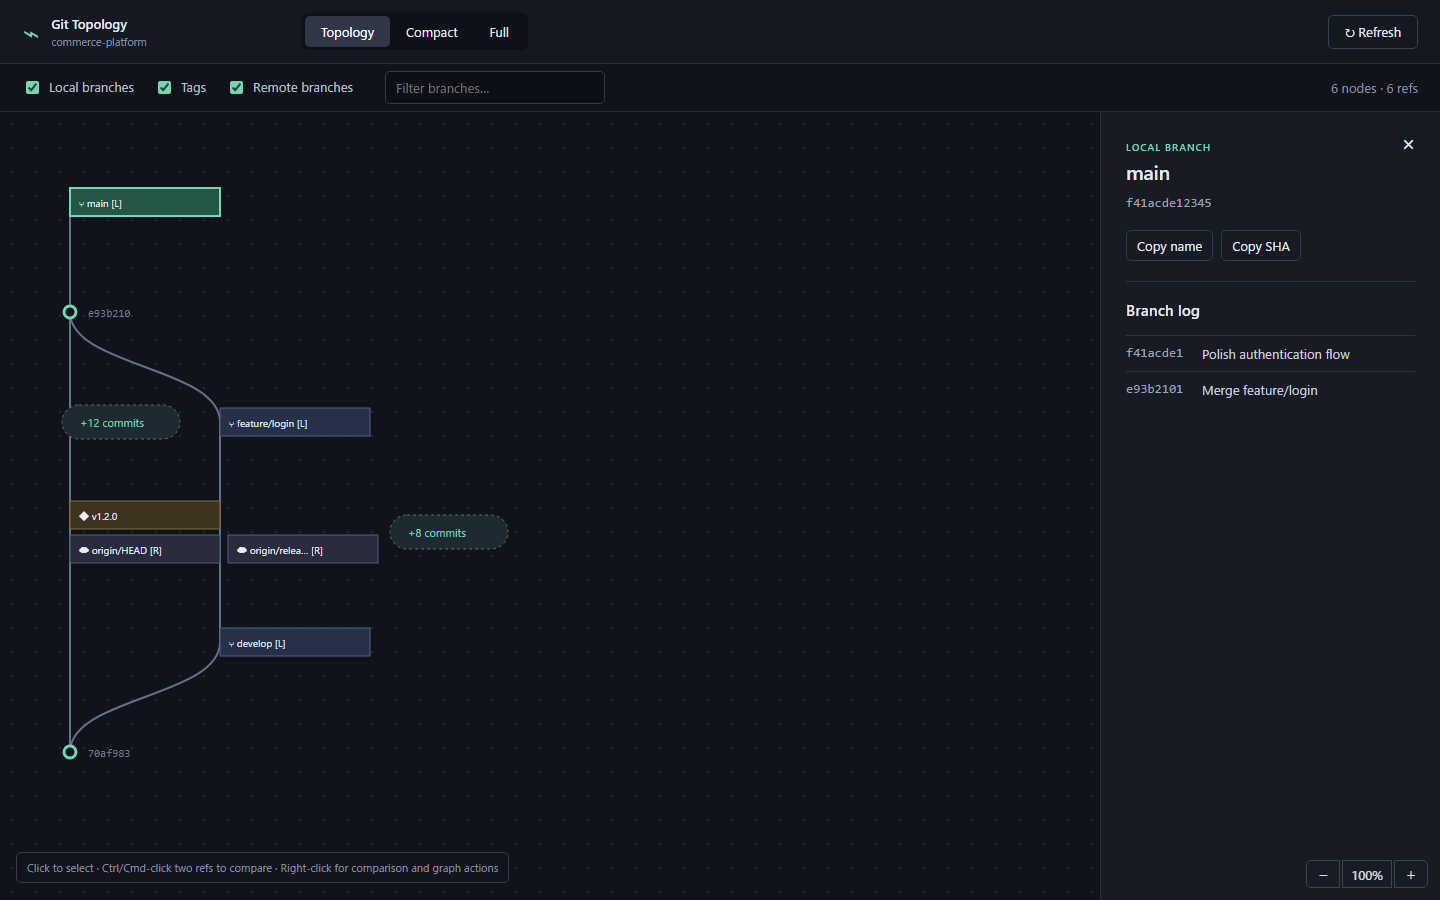
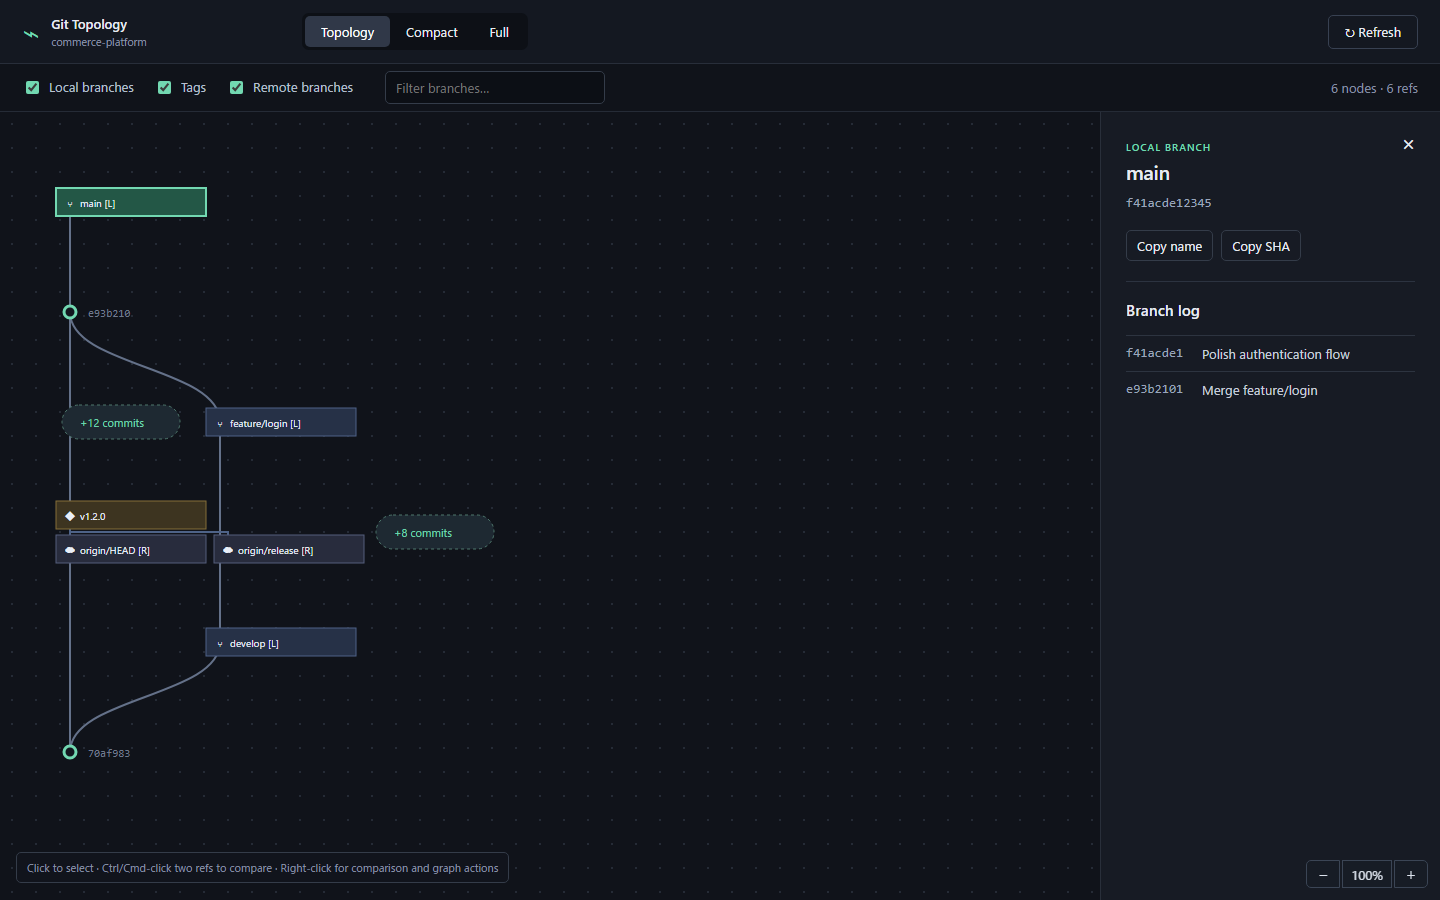
Clarify ref label connections

diff --git a/src/webview/styles.css b/src/webview/styles.css
@@ -1,3 +1,3 @@
 :root{color-scheme:dark;--bg:#10131a;--panel:#171b24;--muted:#8992a7;--line:#343c4d;--accent:#72d8b1;--blue:#6aa8ff}*{box-sizing:border-box}body{margin:0;background:var(--bg);color:#e8ebf2;font:13px var(--vscode-font-family,Inter,system-ui,sans-serif)}button,input,select{font:inherit;color:inherit}.app{height:100vh;display:flex;flex-direction:column}header{height:64px;display:flex;align-items:center;padding:0 22px;border-bottom:1px solid #282e3a;background:#141821}.brand{display:flex;gap:11px;align-items:center;min-width:280px}.brand .mark{font-size:30px;color:var(--accent)}.brand strong,.brand small{display:block}.brand small{color:var(--muted);margin-top:2px}.modes{display:flex;background:#0d1016;padding:3px;border-radius:7px}.modes button,.refresh,.actions button{border:0;background:transparent;padding:7px 16px;border-radius:5px}.modes .active{background:#303848;color:#fff}.refresh{margin-left:auto;border:1px solid #384152}.filters{height:48px;display:flex;align-items:center;gap:20px;padding:0 22px;border-bottom:1px solid #252b36;color:#b8c0d0}.filters label{display:flex;gap:7px}.filters input[type=checkbox]{accent-color:var(--accent)}.filters .search{margin-left:12px;background:#0c0f15;border:1px solid #343c49;border-radius:5px;padding:7px 10px;width:220px}.filters span{margin-left:auto;color:var(--muted)}.content{display:grid;grid-template-columns:minmax(0,1fr) 340px;flex:1;min-height:0}.canvas{overflow:auto;background-image:radial-gradient(#252b36 1px,transparent 1px);background-size:24px 24px}.canvas svg{display:block}.edges path{fill:none;stroke:#647189;stroke-width:2}.node circle{fill:#12161e;stroke:var(--accent);stroke-width:3}.node .sha{fill:#6f798c;font-family:monospace;font-size:11px}.ref{cursor:pointer}.ref rect{fill:#263147;stroke:#4e6388}.ref text{fill:#e9eef8;font-size:11px}.ref.tag rect{fill:#3d3420;stroke:#856f38}.ref.remoteBranch rect{fill:#282c3d;stroke:#555f7d}.range{cursor:pointer}.range rect{fill:#1e2932;stroke:#4f786d;stroke-dasharray:3}.range text{fill:var(--accent);font-size:11px}aside{background:var(--panel);border-left:1px solid #292f3a;overflow:auto}.empty{text-align:center;padding:90px 40px;color:var(--muted)}.empty span{font-size:36px;color:#536078}.inspector{padding:25px;position:relative}.inspector>small,.base small{color:var(--accent);font-weight:700;font-size:10px;letter-spacing:1px}.inspector h2{margin:5px 0 8px}.inspector code{color:#9aa5ba}.close{position:absolute;right:18px;top:14px;border:0;background:transparent;font-size:22px}.actions{display:flex;margin:20px 0}.actions button{border:1px solid #343c49;margin-right:8px;padding:6px 10px}.inspector hr{border:0;border-top:1px solid #2c3340;margin:18px 0}.inspector select{width:100%;background:#0e1118;border:1px solid #394251;padding:9px;border-radius:5px;margin-bottom:13px}.radio{display:block;margin:9px 0;color:#bac2d1}.radio input{accent-color:var(--accent)}.primary{width:100%;margin-top:12px;padding:9px;border:0;border-radius:5px;background:#357f6b;font-weight:600}.metrics{display:grid;grid-template-columns:repeat(3,1fr);gap:6px;margin-top:14px}.metrics div{background:#11151c;padding:10px;text-align:center}.metrics b,.metrics small{display:block}.metrics b{font-size:18px}.metrics small{color:var(--muted);font-size:10px}.base{display:flex;justify-content:space-between}.stat ins{color:#5bdb95;text-decoration:none}.stat del{color:#f37981;text-decoration:none}.files button{width:100%;display:flex;gap:8px;background:transparent;border:0;border-top:1px solid #2d3440;padding:9px 2px;text-align:left}.files i{font-style:normal;color:#69d49b}.files i.D{color:#ef737b}.files i.M{color:#e7b85f}.loading{height:100vh;display:grid;place-content:center;text-align:center;color:var(--muted)}.spinner{margin:auto;width:28px;height:28px;border:3px solid #303847;border-top-color:var(--accent);border-radius:50%;animation:spin 1s linear infinite}.toast{position:fixed;bottom:20px;left:20px;background:#5e2930;padding:12px 16px;border-radius:5px}.error{color:#f48289}@keyframes spin{to{transform:rotate(360deg)}}
 .ref.selected rect{fill:#235746;stroke:var(--accent);stroke-width:2}.selection-hint{position:sticky;left:16px;bottom:14px;width:max-content;padding:7px 10px;border:1px solid #343c49;border-radius:5px;background:#11151ddd;color:var(--muted);font-size:11px}.context-menu{position:fixed;z-index:10;min-width:210px;padding:5px;background:#202631;border:1px solid #475164;border-radius:6px;box-shadow:0 8px 24px #0008}.context-menu .context-title{padding:7px 10px;color:var(--muted);border-bottom:1px solid #394150;overflow:hidden;text-overflow:ellipsis}.context-menu button{display:block;width:100%;padding:8px 10px;border:0;background:transparent;text-align:left}.context-menu button:hover{background:#354158}.context-menu button:disabled{color:#747d8e;background:transparent}.context-separator{height:1px;margin:5px;background:#394150}.ref-log{margin-top:16px}.log-entry{display:grid;grid-template-columns:68px minmax(0,1fr);gap:8px;padding:9px 0;border-top:1px solid #2d3440}.log-entry span{overflow-wrap:anywhere;color:#c9d0dc}.toast.success{left:auto;right:20px;background:#235746;cursor:pointer}
-.context-group{text-transform:uppercase;color:var(--accent);font-size:9px;font-weight:700;letter-spacing:1px;padding:8px 10px 3px;border-top:1px solid #394150}.node.merge-base circle{fill:#d7ad4b;stroke:#fff;stroke-width:4;filter:drop-shadow(0 0 6px #d7ad4b)}.node.merge-base:after{content:'Merge Base'}.ref text{font-size:10px}.ref{outline:none}
+.context-group{text-transform:uppercase;color:var(--accent);font-size:9px;font-weight:700;letter-spacing:1px;padding:8px 10px 3px;border-top:1px solid #394150}.node.merge-base circle{fill:#d7ad4b;stroke:#fff;stroke-width:4;filter:drop-shadow(0 0 6px #d7ad4b)}.node.merge-base:after{content:'Merge Base'}.ref text{font-size:10px}.ref{outline:none}.ref-connectors path{fill:none;stroke:#4e6388;stroke-width:2}

diff --git a/src/webview/App.tsx b/src/webview/App.tsx
@@ -119,7 +119,7 @@ function Graph({data, allowed, selected, onSelect, onContextMenu}:{data:GraphPay
         </g>;
       }
       const layout = refLayouts.get(node.id)!;
-      return <g key={node.id} data-commit={node.id} className={`node ${(data.mergeBaseIds ?? []).includes(node.id)?'merge-base':''}`} transform={`translate(${node.x},${node.y})`}>{layout.refs.length===0&&<><circle r="6"/><text className="sha" x="18" y="5">{node.id.slice(0,7)}</text></>}{layout.refs.map(({ ref, position })=><g key={ref.fullName} className={`ref ${ref.type} ${selected.has(ref.fullName)?'selected':''}`} transform={`translate(${position.x},${position.y})`} onClick={event=>{event.stopPropagation();onSelect(ref,event.ctrlKey||event.metaKey);}} onContextMenu={event=>onContextMenu(ref,event)} role="button" aria-label={`${ref.name} branch`}><rect width="150" height="28" rx="0"/><text x="9" y="19">{ref.type==='tag'?'◆ ':ref.type==='remoteBranch'?'☁ ':'⑂ '}{ref.name.length>13?ref.name.slice(0,12)+'…':ref.name}{branchState(data,ref)}</text></g>)}</g>;
+      return <g key={node.id} data-commit={node.id} className={`node ${(data.mergeBaseIds ?? []).includes(node.id)?'merge-base':''}`} transform={`translate(${node.x},${node.y})`}>{layout.refs.length > 1 && <g className="ref-connectors" aria-hidden="true">{layout.refs.slice(1).map(({ ref, position }) => <path key={ref.fullName} data-ref-connector={ref.fullName} d={`M ${layout.anchor.x} ${layout.anchor.y} V ${position.y - REF_ROW_GAP / 2} H ${position.x + REF_ICON_CENTER_X} V ${position.y + REF_HEIGHT / 2}`}/>)}</g>}{layout.refs.length===0&&<><circle r="6"/><text className="sha" x="18" y="5">{node.id.slice(0,7)}</text></>}{layout.refs.map(({ ref, position })=><g key={ref.fullName} className={`ref ${ref.type} ${selected.has(ref.fullName)?'selected':''}`} transform={`translate(${position.x},${position.y})`} onClick={event=>{event.stopPropagation();onSelect(ref,event.ctrlKey||event.metaKey);}} onContextMenu={event=>onContextMenu(ref,event)} role="button" aria-label={`${ref.name} branch`}><rect width="150" height="28" rx="0"/><text className="ref-icon" x="14" y="19" textAnchor="middle">{refIcon(ref)}</text><text className="ref-name" x="24" y="19">{displayRefName(ref.name)}{branchState(data,ref)}</text></g>)}</g>;
     })}
   </g></svg><div className="selection-hint">Click to select · Ctrl/Cmd-click two refs to compare · Right-click for comparison and graph actions</div></section>;
 }
@@ -128,6 +128,7 @@ const REF_WIDTH = 150;
 const REF_HEIGHT = 28;
 const REF_ROW_GAP = 6;
 const REF_COLUMN_GAP = 8;
+const REF_ICON_CENTER_X = 14;
 const REF_TYPES: GitRef['type'][] = ['tag', 'localBranch', 'remoteBranch'];
 
 interface RefLayout {
@@ -140,10 +141,10 @@ function layoutRefs(refs: GitRef[]): RefLayout {
   const firstRowY = -((rows.length * REF_HEIGHT) + ((rows.length - 1) * REF_ROW_GAP)) / 2;
   const positionedRefs = rows.flatMap((row, rowIndex) => row.map((ref, columnIndex) => ({
     ref,
-    position: { x: columnIndex * (REF_WIDTH + REF_COLUMN_GAP), y: firstRowY + rowIndex * (REF_HEIGHT + REF_ROW_GAP) }
+    position: { x: -REF_ICON_CENTER_X + columnIndex * (REF_WIDTH + REF_COLUMN_GAP), y: firstRowY + rowIndex * (REF_HEIGHT + REF_ROW_GAP) }
   })));
   const anchor = positionedRefs[0]
-    ? { x: positionedRefs[0].position.x, y: positionedRefs[0].position.y + REF_HEIGHT / 2 }
+    ? { x: positionedRefs[0].position.x + REF_ICON_CENTER_X, y: positionedRefs[0].position.y + REF_HEIGHT / 2 }
     : { x: 0, y: 0 };
   return { refs: positionedRefs, anchor };
 }
@@ -167,6 +168,8 @@ function branchState(data: GraphPayload, ref: GitRef): string {
   const movement = status.ahead || status.behind ? `${status.ahead ? ` ↑${status.ahead}` : ''}${status.behind ? ` ↓${status.behind}` : ''}` : ' =';
   return ` [L][R]${movement}`;
 }
+function refIcon(ref: GitRef): string { return ref.type==='tag' ? '◆' : ref.type==='remoteBranch' ? '☁' : '⑂'; }
+function displayRefName(name: string): string { return name.length > 18 ? `${name.slice(0,17)}…` : name; }
 function ContextMenu({menu,onRun}:{menu:ContextMenuState;onRun:(command:GraphContextMenuItem['command'])=>void}) {
   const groups: GraphContextMenuItem['group'][] = ['compare','graph','git','manage','copy'];
   return <div className="context-menu" role="menu" style={{left:menu.x,top:menu.y}} onClick={event=>event.stopPropagation()}><div className="context-title">{menu.ref.name}</div>{groups.map(group => { const items=menu.items.filter(item=>item.visible&&item.group===group); return items.length?<React.Fragment key={group}><div className="context-group">{group}</div>{items.map(item=><button key={item.command} role="menuitem" disabled={!item.enabled} onClick={()=>onRun(item.command)}>{item.label}</button>)}</React.Fragment>:null; })}</div>;
